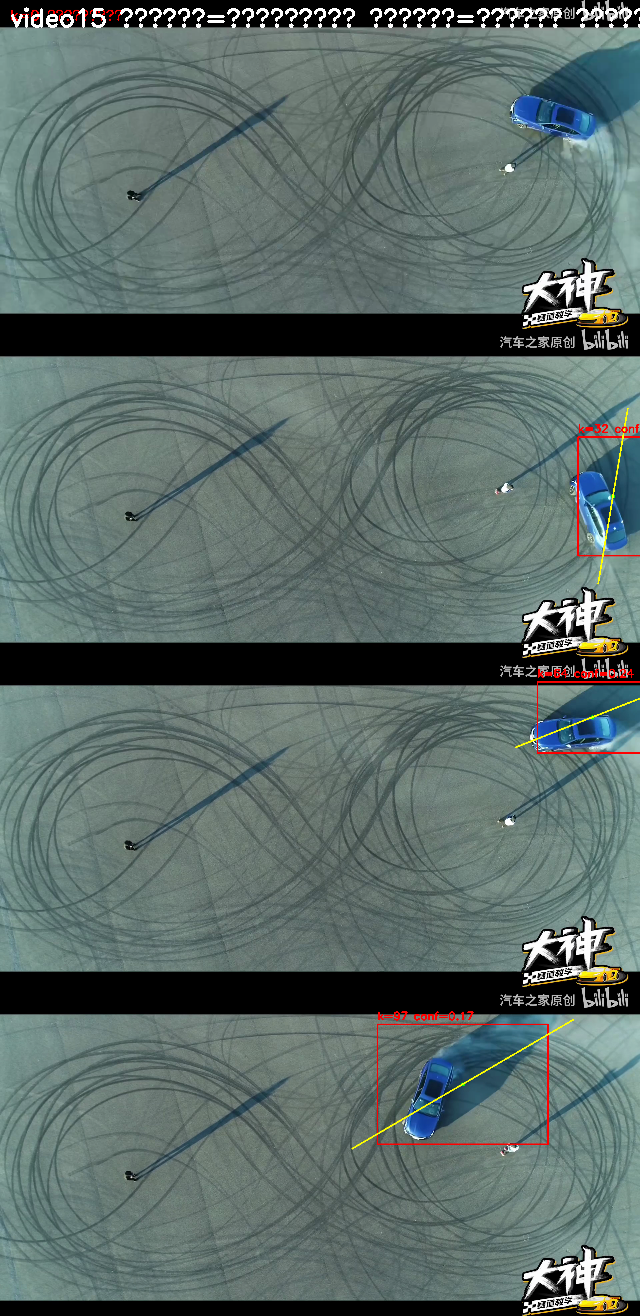
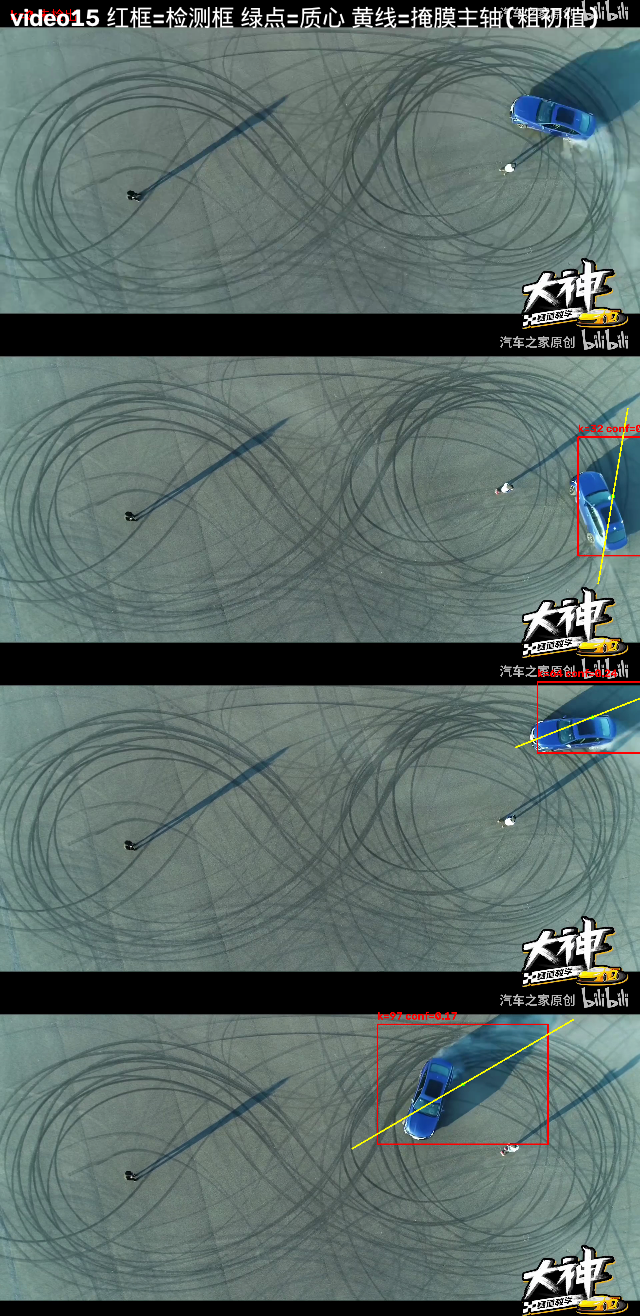
fix(素材): 找回误删的 video15，并加上素材一致性核验工具
用户误删 drift/video15.mp4。git 侧确认无法找回：素材从未入库（初始提交的
.gitignore 第一版就排除 drift/*.mp4、drift/*.mov），对象库无视频 blob，
fsck 只有一个文本悬空 blob，无 Time Machine、APFS 只有系统更新快照、废纸篓空。

实际找回路径：用 outputs/preprocess/video15.json 的四元组
（1920x1080 / 25.00fps / 115 帧 / 4.60s）做全盘指纹匹配，命中
~/Movies/EA1A4761-2E11-4DFE-8EAB-F55FA0DDD865.mp4 —— 用户删的是 drift/ 下的
副本，原件一直没动（创建于 16:54，正是当天批量放素材的起始）。

三重内容验证（元信息吻合不等于内容相同）：
1. 重跑 preprocess → JSON 全字段逐位一致（含 t 的 98 项浮点与
   bg_residual_frac 的 14 位小数）
2. tracks 与 git 中旧版逐字节一致，1372 个单元格 0 差异（最强证据）
3. 重出裁图 vs 旧裁图：35 帧中 34 帧逐字节一致；1 帧（k=69）为 crops 缓存
   过期残留（该帧车贴顶、裁矩形被夹边界），重生成后修正

改动：
- 新增 tools/verify_material.py：把旧裁图与"用当前文件重出的裁图"逐字节比对，
  用来判断素材是否仍是产出标注/轨迹时的那一份
- README 新增关键约定 §7「标注与素材文件版本强绑定，换素材即作废」，
  并在素材章节写明"不入库 ⇒ 删了就没了"的操作纪律
- 项目规划新增 §14.8（git 排查表、指纹找回、三重验证、母带定位表）：
  video13 在 39111951084 的 10.2s（MSE 13.1）、video14 在 178.7s（MSE 7.2）；
  该母带本身只有 360p，故 §14.5 第 1 条从"从母带重导"改为"另找高清源"；
  26570394849 是尚未使用的 1080p 素材池
- 删除过时的 outputs/reports/M1_报告_局部.md（全量报告已完整）
- 新增凭证图 outputs/reports/figures/video15_recovered.png

diff --git a/tools/verify_material.py b/tools/verify_material.py
@@ -1,0 +1,133 @@
+"""验证 drift/ 下的素材文件是否与"当初生成标注/轨迹时"的那份是同一个。
+
+为什么需要它：标注（`outputs/annotations/<名>.csv`）和工作图坐标（`x1..y2`）
+都**与素材文件版本强绑定** —— k 索引来自该版本的帧序列，坐标依赖裁剪参数。
+换了素材（重新下载、换分辨率、换剪辑起点）再沿用旧标注，结果是错的但看不出来。
+本脚本用"重出裁图 vs 旧裁图"的像素比对把这个风险显式化。
+
+原理：`outputs/annotations/crops/<名>/*.jpg` 是从原片按固定参数裁出来的
+（render() 里写入的 JPEG 质量、缩放比、裁剪矩形全部由代码决定，可复现）。
+所以只要输入文件相同，重出的 JPEG 应当**逐字节一致**。
+
+用法：
+    /opt/anaconda3/bin/python3 tools/verify_material.py video15
+    /opt/anaconda3/bin/python3 tools/verify_material.py --all
+
+退出码：0 全部一致；1 有不一致；2 无法比较（缺队列/缺裁图/源文件缺失）。
+"""
+
+from __future__ import annotations
+
+import csv
+import hashlib
+import sys
+import tempfile
+from pathlib import Path
+
+import cv2
+import numpy as np
+
+ROOT = Path(__file__).resolve().parents[1]
+sys.path.insert(0, str(ROOT))
+
+from src import config as C          # noqa: E402
+from src import crops as CR          # noqa: E402
+from src import preprocess as P      # noqa: E402
+
+
+def read_queue(name: str) -> list[dict]:
+    """队列 CSV 前两行是 `#` 注释，写文件时手工跳过（同 src/annotate.read_queue）。"""
+    p = C.ANNOT_QUEUE_DIR / f"{name}.csv"
+    if not p.exists():
+        return []
+    with p.open(encoding="utf-8") as f:
+        rows = list(csv.DictReader(line for line in f if not line.startswith("#")))
+    return [r for r in rows if r.get("k")]
+
+
+def md5(path: Path) -> str:
+    return hashlib.md5(path.read_bytes()).hexdigest()
+
+
+def verify(name: str, verbose: bool = True) -> tuple[int, int, int]:
+    """返回 (一致数, 不一致数, 无法比较数)。"""
+    spec = C.get(name)
+    if spec is None or not spec.path.exists():
+        print(f"{name}: 源文件不存在（{spec.path if spec else '未登记'}）")
+        return 0, 0, 1
+
+    rows = read_queue(name)
+    if not rows:
+        print(f"{name}: 无待标注队列，无法比较")
+        return 0, 0, 1
+
+    res = P.preprocess(spec)
+    same, diff, skip = 0, 0, 0
+    diffs: list[tuple[int, float, float]] = []      # (k, MSE, 最大像素差)
+
+    with tempfile.TemporaryDirectory() as td:
+        tmp = Path(td)
+        for r in rows:
+            k = int(r["k"])
+            old_jpg = CR.crop_path(name, k)
+            if not old_jpg.exists():
+                skip += 1
+                continue
+            rect = CR.crop_rect_for(res, float(r["cx"]), float(r["cy"]),
+                                    float(r["w"]), float(r["h"]))
+            new_jpg = tmp / f"{k:05d}.jpg"
+            CR.render(res, spec, k, rect, new_jpg)
+
+            if md5(old_jpg) == md5(new_jpg):
+                same += 1
+                continue
+            # 字节不同也可能是 JPEG 编码抖动，再看像素差
+            a = cv2.imread(str(old_jpg))
+            b = cv2.imread(str(new_jpg))
+            if a is None or b is None or a.shape != b.shape:
+                diff += 1
+                diffs.append((k, float("nan"), float("nan")))
+                continue
+            d = np.abs(a.astype(np.int16) - b.astype(np.int16))
+            mse = float((d.astype(float) ** 2).mean())
+            diffs.append((k, mse, float(d.max())))
+            if mse < 8.0:        # JPEG 量化级抖动，视觉无差
+                same += 1
+            else:
+                diff += 1
+
+    tag = "一致" if diff == 0 else "**不一致**"
+    print(f"{name}: 比对 {len(rows)} 帧 → 一致 {same}，不一致 {diff}，缺裁图 {skip}  [{tag}]")
+    if diffs and verbose:
+        bad = [d for d in diffs if not (d[1] == d[1] and d[1] < 8.0)]
+        for k, mse, mx in bad[:8]:
+            print(f"    k={k:<4} MSE={mse:>8.1f}  最大像素差={mx:.0f}")
+        if len(bad) > 8:
+            print(f"    ...另有 {len(bad) - 8} 帧")
+    return same, diff, skip
+
+
+def main(argv: list[str]) -> int:
+    args = [a for a in argv[1:] if not a.startswith("-")]
+    if "--all" in argv:
+        names = [s.name for s in C.active_static_videos()]
+    elif args:
+        names = args
+    else:
+        print(__doc__)
+        return 2
+
+    print("素材一致性核验（重出裁图 vs 旧裁图，逐字节 + 像素差）")
+    print("=" * 78)
+    total_diff = 0
+    for n in names:
+        _, d, _ = verify(n)
+        total_diff += d
+    print("=" * 78)
+    print("结论：", "全部素材与旧裁图一致，标注可继续沿用" if total_diff == 0
+          else f"有 {total_diff} 帧不一致 —— 素材已变，该素材的旧标注需作废重标")
+    return 0 if total_diff == 0 else 1
+
+
+if __name__ == "__main__":
+    raise SystemExit(main(sys.argv))

diff --git a/.workbuddy/memory/2026-09-23.md b/.workbuddy/memory/2026-09-23.md
@@ -254,5 +254,55 @@ CSV 列齐、覆盖物无越界、0 JS 异常。
 → video15（等无字幕版）与 video12（若换版本）**应等最终素材到位再标**，
 现在标了也是白标。
 
+---
+
+## video15 误删找回（用户问"能不能通过 git 找回"）
+
+**答案：git 不能，但文件没丢。** 路径：`~/Movies/EA1A4761-2E11-4DFE-8EAB-F55FA0DDD865.mp4`
+
+- git 侧彻底排除：素材**从未入库**（初始提交 e25e4ac 的 .gitignore 第一版就排除
+  `drift/*.mp4`、`drift/*.mov`），对象库无视频 blob，fsck 只有 1 个文本悬空 blob；
+  无 Time Machine（未配置目标）、APFS 只有系统更新快照、废纸篓空。
+- 找回手段：**元信息指纹全盘匹配**。从 `outputs/preprocess/video15.json` 读四元组
+  （1920×1080 / 25.00fps / 115 帧 / 4.60s），用 mdfind + `cv2` 探测全盘候选，
+  命中 ~/Movies 那个 UUID 名文件（创建于 16:54，正是当天批量放素材的起始 ——
+  用户删的是 drift/ 下的副本，原件一直没动）。
+- 三重验证（元信息吻合≠内容相同，必须验）：
+  1. 重跑 preprocess → JSON **全字段逐位一致**（含 `t` 98 项浮点、
+     `bg_residual_frac` 的 14 位小数）；
+  2. `outputs/tracks/video15.csv` 与 git 旧版 **逐字节一致，1372 单元格 0 差异**（最强）；
+  3. `tools/verify_material.py` 重出裁图 vs 旧裁图：35 帧中 34 帧逐字节一致，
+     1 帧（k=69）不一致 → 查明是 crops 缓存**过期残留**（该帧车贴顶、裁矩形被夹边界，
+     旧图非当前素材生成），重生成后修正。
+- 新增 `tools/verify_material.py`：重出裁图与旧裁图逐字节比对，用于"素材是否仍是
+  产出标注时那一份"。**换素材（重下/重剪/去字幕/换清晰度）后必须先跑它**。
+
+## 顺带定位到素材母带（~/Desktop 三个下载文件）
+
+| 文件 | 规格 | 关系 |
+|---|---|---|
+| 26570394849-1-100113.mp4 | 1080p / 103.6s / 30fps | 俯视教学母带，**已剪片段都不在其中** → 未使用的 1080p 素材池 |
+| 38450169723-1-30077.mp4 | 1080p / 241.2s | 真人解说 + 红色拉力车，与 video10/11 同类 |
+| 39111951084-1-30011.mp4 | 640×360 / 262.8s | **video13 在 10.2s（MSE 13.1）、video14 在 178.7s（MSE 7.2）** |
+
+关键推论：**video13/14 只有 360p 是因为母带只有 360p**，不是导出时选错清晰度；
+要高清得另找源。搜索法：素材中间帧缩 160×90 灰度，对母带每 3 帧算 MSE，
+匹配值在 10 量级、不匹配在 1000 量级，区分度很干净。
+
+## 本次代码/文档改动
+
+- `tools/verify_material.py`（新增）
+- README 新增关键约定 **§7「标注与素材文件版本强绑定，换素材即作废」**（原六条→七条）；
+  「素材」章节补"不入库 ⇒ 删了就没了"的三条操作纪律
+- `项目规划.md` 新增 §14.8（git 为何找不回、指纹找回、三重验证、母带定位表），
+  并修正 §14.5 第 1 条（母带只有 360p，不是下载选错）
+- 删除过时的 `outputs/reports/M1_报告_局部.md`（全量报告已完整）
+- 凭证图 `outputs/reports/figures/video15_recovered.png`（左：恢复的文件；
+  右：删除前生成的裁图缓存）
+
+**经验**：素材不入库的代价要显式兜住 —— 用"预处理 JSON + tracks 逐字节 diff"当指纹。
+其中 **tracks 逐字节比对最强**，因为它对帧序列、裁剪参数、像素内容同时敏感，
+且是端到端产物。
+
 
 

diff --git a/outputs/reports/M1_报告.md b/outputs/reports/M1_报告.md
@@ -14,6 +14,7 @@
 | video08 | 1920×1080 | 92 | 83 | 9.8% | 3.6s | 0.03% | 83 | 100% | 48×29 | 0 |
 | video09 | 1920×1080 | 33 | 30 | 9.1% | 1.3s | 0.21% | 30 | 100% | 159×102 | 0 |
 | video12 | 1920×1080 | 415 | 286 | 31.1% | 16.5s | 4.20% | 265 | 93% | 296×139 | 21 |
+| video15 | 1920×1080 | 101 | 98 | 3.0% | 4.0s | 0.45% | 96 | 98% | 163×153 | 2 |
 
 > 「覆盖率」= 检出帧数 / 去重后唯一帧数。「背景残留」= 中值背景扣掉车辆后仍剩的差异像素占比，阈值 3%；超过即判为相机在动。
 
@@ -40,6 +41,7 @@
 | video08 | k 0~82 | 0 帧 | 0 | 71 / 88 | 83/83 | 1.6° | 无（用 PCA 基线） |
 | video09 | k 0~29 | 0 帧 | 2（7%） | 336 / 451 | 30/30 | 1.6° | 20 帧人工 + 8 插值 |
 | video12 | k 0~285 | 4 帧 | 8（3%） | 56 / 775 | 265/286 | 6.2° | 无（用 PCA 基线） |
+| video15 | k 1~97 | 1 帧 | 12（12%） | 140 / 215 | 96/98 | 3.6° | 无（用 PCA 基线） |
 
 > 「位置离群剔除」= 滑动窗口中值法判为偏离主轨迹、已置空并插值补回的帧数。用于清掉车被画面边缘截断、掩膜临时并进阴影/杂物造成的假跳点。
 >
@@ -76,11 +78,5 @@
 - **video02**：重复帧比例 63.3%，有效时长被压缩到 6.8s，样本量受限；裁掉黑边 (1, 25, 1, 84)
 - **video03**：重复帧比例 50.9%，有效时长被压缩到 8.8s，样本量受限；裁掉黑边 (1, 25, 1, 84)
 - **video12**：背景模型残留差异 4.20%，超过 3% 阈值，与登记的静止机位不符，请复核；重复帧比例 31.1%，有效时长被压缩到 16.5s，样本量受限
-
-## 7. 本次未跑到的素材
-
-以下素材在本次运行时**源文件不在 `drift/`**，表中因此没有它们的行。
-它们此前生成的 `outputs/tracks/*.csv` 与曲线图仍在磁盘上，但**可能已与最新代码不一致**，不要当作本次结果引用。
-
-- **video15**：找不到素材文件：video15.mov / .mp4
+- **video15**：裁掉黑边 (0, 36, 0, 56)
 
